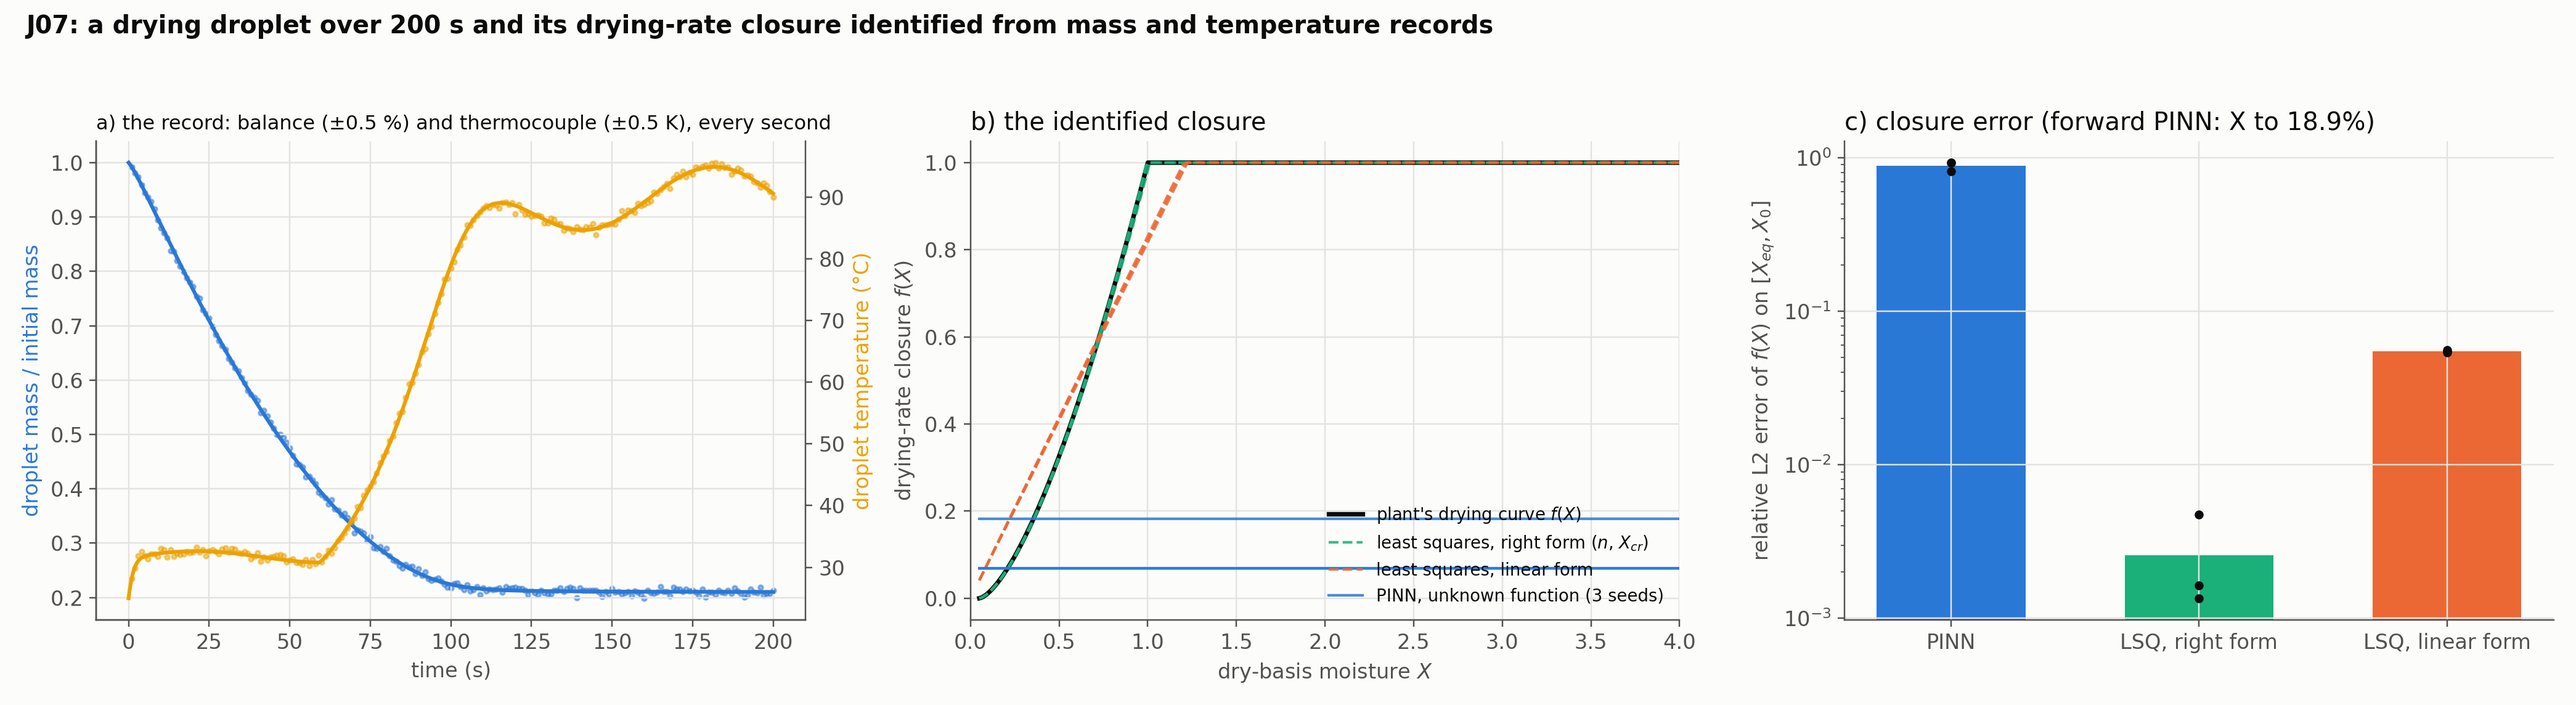
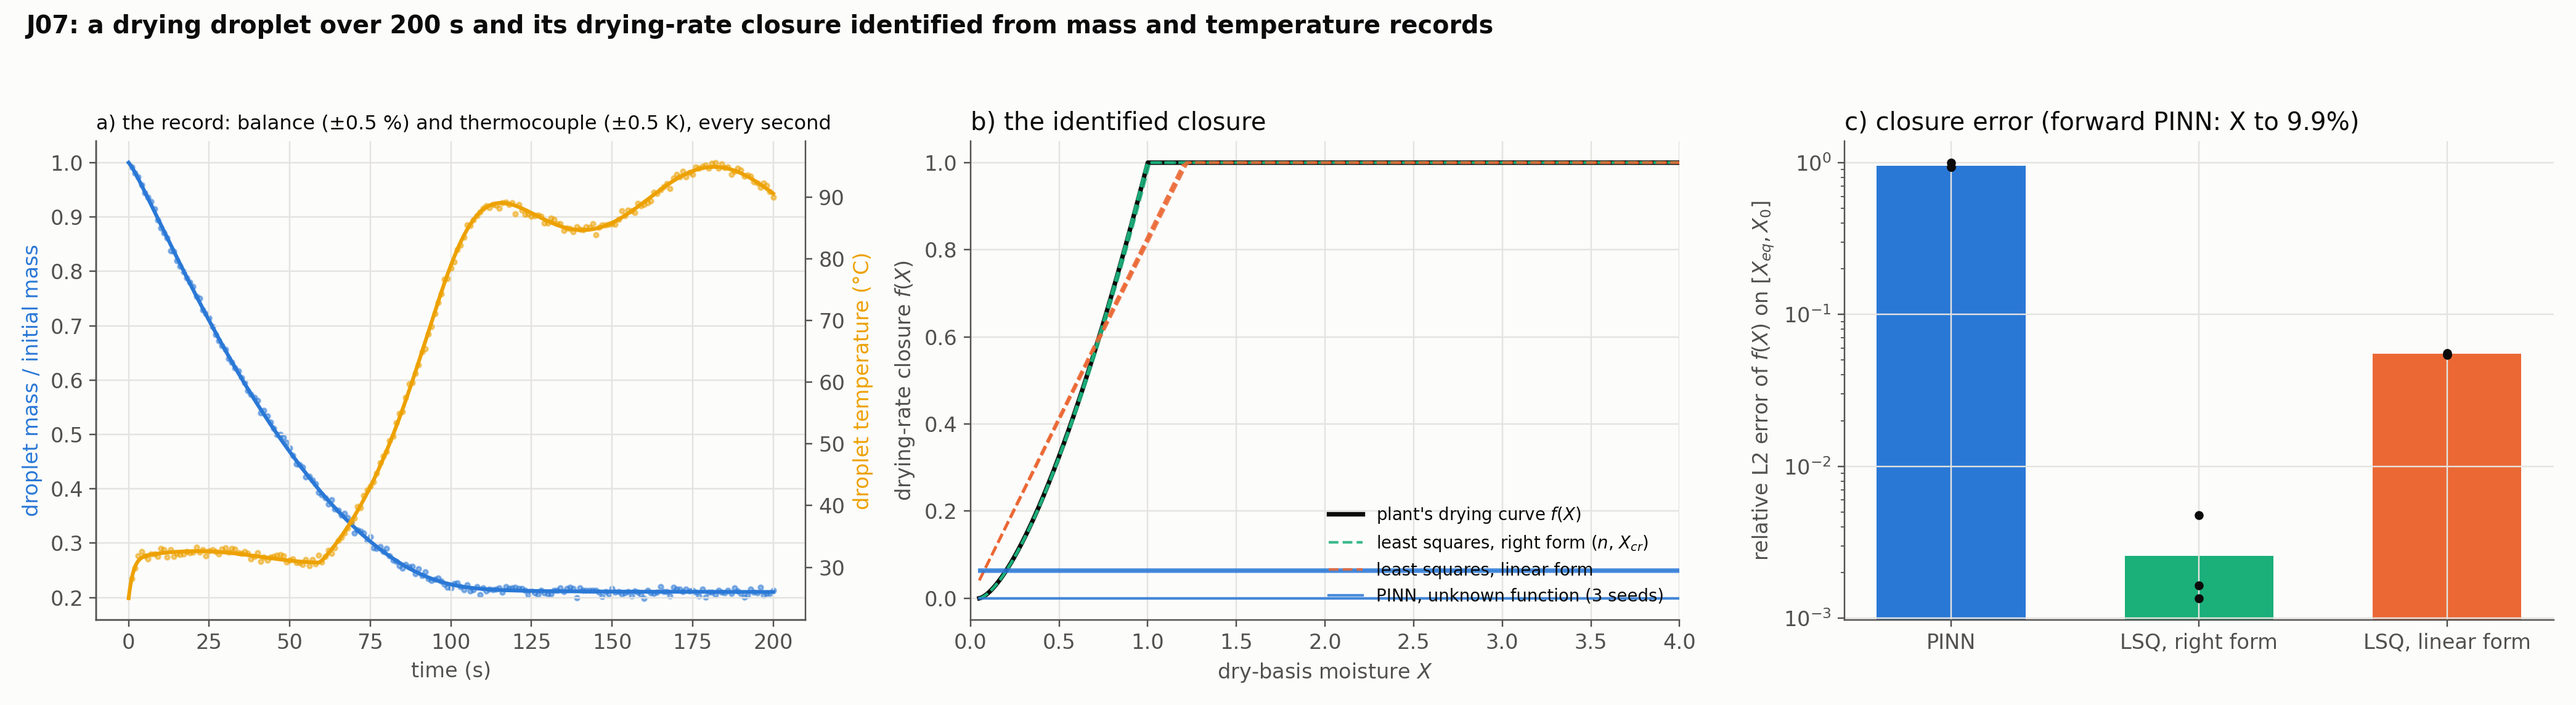
exp(J07): the drying droplet's forward solve and the closure identification, first pass: the free closure collapses to a constant
Claude-Session: https://claude.ai/code/session_01UnzSpXpauvRJsPnBamsC4p

diff --git a/experiments/J07_droplet_drying/run.py b/experiments/J07_droplet_drying/run.py
@@ -253,7 +253,10 @@ def main():
     jobs = [("forward", s) for s in range(args.seeds)] + [("closure", s) for s in range(args.seeds)]
     with ProcessPoolExecutor(max_workers=args.workers) as pool:
         futures = [
-            pool.submit(run_forward if kind == "forward" else run_closure, (s, args.steps))
+            pool.submit(
+                run_forward if kind == "forward" else run_closure,
+                (s, args.steps, args.lbfgs_steps, args.initial, args.data_weight),
+            )
             for kind, s in jobs
         ]
         for fut in futures:

diff --git a/experiments/J07_droplet_drying/README.md b/experiments/J07_droplet_drying/README.md
@@ -1,0 +1,48 @@
+# J07: a drying droplet and its drying-rate closure (first pass)
+
+## Question
+
+Can the twin solve the single-droplet drying model forward, and identify the drying-rate closure $f(X)$, the part of the model a plant cannot measure, from a mass-and-temperature record? Against what a classical fit achieves with the right and with a wrong parametric form.
+
+## Setup
+
+- **Model:** `pinnrl.process.DryingDroplet`: a 1.5 mm droplet of a 20 % solids solution (skim-milk-like) at 25 °C in air at 90 °C wandering by $\pm 5$ K (recorded), humidity ratio 0.01, relative velocity 1 m/s. Ranz–Marshall heat and mass transfer, shrinkage by ideal mixing, and the drying rate $-\dot X = h_m A (\rho_{v,s}(T) - \rho_{v,a}) f(X) / m_s$ with the characteristic drying curve $f(X) = \min(1, ((X - X_{eq})/(X_{cr} - X_{eq}))^n)$, $n = 1.5$, $X_{cr} = 1$, $X_{eq} = 0.05$ (dry basis; $X_0 = 4$). The ODE reference (LSODA) dries the droplet in about 100 s: a wet-bulb plateau at 32 °C, the falling-rate period from $t \approx 50$ s with the temperature rising 50 K in 40 s, equilibrium by 150 s.
+- **Part A, forward PINN:** `custom_pde(t_max=200)` (an ODE in $t$, normalized with the trajectory's scales), the clean recipe: tanh 4 × 64, 2,048 collocation points, Adam $10^{-3}$ for 12,000 steps then L-BFGS 500 (4,000 + 100 left a 20 % error), 3 seeds.
+- **Part B, the closure:** the record is the droplet mass every second (a balance, noise 0.5 % of the initial mass) and its temperature every second (noise 0.5 K), 200 readings each, through `PointSensor`s (the mass as the expression `m_s*(1 + X)` with `scale = m_0`). `custom_pde(unknown_rate=...)` makes $f$ an `UnknownFunction` of $X$ (16 × 16, sigmoid output in $[0, 1]$, monotone increasing in $X$, started at 0.5). Sensor weight 300 (a sweep over 100–10,000 on one seed, below), same training, 3 seeds. **Controls** on the same records, by least squares on the ODE reference (`scipy.optimize.least_squares`): the parametric curve with the right form ($n$, $X_{cr}$ free), and the misspecified linear form $f = \min(1, X / X_{lin})$.
+- **Metrics:** the relative L2 error of $f$ over $[X_{eq}, X_0]$; the relative L2 errors of $X(t)$ and of $T(t) - T_0$ against the reference; the run time.
+- **Code:** `run.py`, `plot.py`.
+
+Rerun with:
+
+```bash
+python experiments/J07_droplet_drying/run.py --seeds 3 --steps 12000 --lbfgs-steps 500 --data-weight 300 --workers 3
+python experiments/J07_droplet_drying/plot.py
+```
+
+## Result
+
+![J07](../../docs/assets/benchmarks/j07_droplet_drying.png)
+
+| Arm | Seed | Rel. L2 of $f$ | Rel. L2 of $X$ | Rel. L2 of $T - T_0$ | Max $\lvert \Delta T \rvert$ | Time |
+|---|---|---|---|---|---|---|
+| forward PINN | 0 | – | 0.076 | 0.21 | 24 K | 111 s |
+| | 1 | – | 0.084 | 0.22 | 25 K | 114 s |
+| | 2 | – | 0.138 | 0.25 | 27 K | 110 s |
+| PINN, unknown $f$ | 0 | 1.00 ($f \equiv 0$) | 0.026 | 0.006 | 1.0 K | 214 s |
+| | 1 | 0.94 ($f \equiv 0.06$) | 0.36 | 0.53 | 35 K | 180 s |
+| | 2 | 0.93 ($f \equiv 0.07$) | 0.41 | 0.54 | 34 K | 194 s |
+| least squares, right form | 0–2 | 0.005, 0.002, 0.001 ($n$ = 1.50–1.52, $X_{cr}$ = 1.00–1.01) | | | | 0.2 s |
+| least squares, linear form | 0–2 | 0.056, 0.054, 0.055 ($X_{lin}$ = 1.20–1.22) | | | | 0.3 s |
+
+The weighted misfit of the least-squares fits: 341–361 with the right form (400 records, $\chi^2 \approx N$) and 5,700–6,000 with the linear one.
+
+**Sensor-weight sweep** (one seed, 12,000 + 500 steps): weight 100, $f \equiv 0.04$ (fields 33 % off); 300, $f$ recovered to 15 % in one run (the shape right, shifted to higher $X$) and collapsed to a constant in a repeat of the same seed with a different thread count; 1,000, one run at 33 % (the shape right, a plateau at 0.66) and two collapsed; 3,000 and 10,000, $f \equiv 0$ with the fields fitted to 1–2 %.
+
+## Conclusion (first pass)
+
+1. **The forward solve is harder than the evaporator's.** The sharp transition at the critical moisture (the temperature rises 50 K in 40 s after a 50 s plateau) is the feature a smooth network spreads: 8–14 % on $X$ and 20–25 % on the temperature rise at 12,000 + 500 steps, where 4,000 + 100 gave 20 % and 44 %. The error sits in the transition; the plateaus are right. Time-marching windows (H04) or a causal weighting are the known remedies and this model is their test case.
+2. **The unknown closure collapses to a constant.** On every seed the monotone, bounded network for $f$ ends flat: either $f \equiv 0$ with the records fitted and the physics ignored (high sensor weight: the network reproduces the data by itself and the residual is cheap to leave unpaid), or $f \equiv 0.06$ with the fields 40 % off (low weight: a self-consistent wrong solution). The one recovery to 15 % did not reproduce under a different thread count: the basin is narrow. The collapse is K09's trivial attractor in the inverse setting, and it is sticky by construction: softplus-constrained weights that have gone small leave almost no gradient to grow back.
+3. **The classical fit with the right form is at the noise floor, and the wrong form is detectable.** Least squares on the ODE recovers $n$ and $X_{cr}$ to 1 % in 0.2 s; the linear form lands 5.5 % off with a misfit 16 times the right one, so misspecification shows in the residual. Between a parametric fit that is right, a parametric fit that is visibly wrong, and a free function that collapses, the twin's claim to identify closures is not yet made on this model.
+4. **What to change (J07b).** Two-stage training (fit the record with $f$ frozen at the wet-surface value, then release $f$ with the physics weight raised); a basis parametrization of $f$ (K48's cosine or Legendre modes, whose constant mode is explicit and whose other modes cannot vanish silently); a pointwise start for $f$ from the smoothed record ($f = -\dot X m_s / (h_m A \Delta\rho)$, the equation-discovery estimate), with the PINN refining it; and the sensor weight set by the noise model (K39) rather than by a sweep.
+
+**Consequences for the backlog:** J07b (the closure, second pass) with the four changes above; H04 (time-marching) gets the droplet as a test case next to the pendulum and SIR of K09; J08 (stickiness) waits for a working closure; the EKF control (J05) applies to the parametric form only, which is the comparison's point.

diff --git a/experiments/BACKLOG.md b/experiments/BACKLOG.md
@@ -196,7 +196,8 @@ before it counts as done.
 | J04 | P1 | Plant-like sensors | Is R_f identifiable from outlet/boundary measurements only? | Fisher information of six Legendre modes of R_f(t) and four nuisances from finite differences on the reference, four layouts; profile likelihood on the reference. Outlet X + W determine every mode to 1–4 % and the end value to 5 %; U and the constant fouling are one unknown; a 0.5 K steam bias mimics a 30 % fouling error. See `J04_plant_sensors/`. | done |
 | J05 | P2 | EKF/UKF baseline | PINN estimator vs a Kalman filter on a lumped model. | `pinnrl.process.ExtendedKalmanFilter` + RTS smoother on 6–51 cells with R_f as a random walk, J03's records: 3.5 % in L2 and 2 % at the end in 0.2 s (smoother 2.3 % / 0.7 %) against the PINN's 9–16 % / 10–49 % in 5 min; one tuning knob; the input biases of J04 cost both alike. See `J05_ekf_baseline/`. | done |
 | J06 | P2 | Calibrated fouling intervals | Are the R_f uncertainty intervals calibrated? | Ensembles or Laplace; coverage as in F06. | todo |
-| J07 | P2 | Single-droplet drying model | Forward PINN for droplet moisture and temperature. | Against a classical ODE/PDE reference. | todo |
+| J07 | P2 | Single-droplet drying model | Forward PINN for droplet moisture and temperature. | `pinnrl.process.DryingDroplet` (Ranz–Marshall, shrinkage, a characteristic drying curve) with an ODE reference: the forward PINN reaches 8–14 % on X (the critical-moisture transition is the hard feature); the closure f(X) as an UnknownFunction collapses to a constant on every seed, while least squares with the right form is at the noise floor and a wrong form is detectable. See `J07_droplet_drying/`. | first pass |
+| J07b | P1 | Drying closure, second pass | Can the free-function closure be made to train? | Two-stage training (record first, f frozen; then f released), a basis parametrization (K48), a pointwise start from the smoothed record, the noise-model sensor weight (K39); against the J07 least-squares controls. | todo |
 | J08 | P2 | Stickiness estimation | Estimate the glass-transition margin T − T_g from outlet air T and RH. | Synthetic data from J07 plus noise. | todo |
 | J09 | P3 | Measurement design | Which sensor placement minimises parameter variance? | Fisher information over candidate sensor sets on J01/J07. | todo |
 | J10 | P3 | Line-level twin | Coupled evaporator → dryer with shared states. | Couple J01 and J07; error propagation across units. | todo |

diff --git a/docs/roadmap.md b/docs/roadmap.md
@@ -36,7 +36,7 @@ The goal is to estimate unknown physics with known validity conditions and calib
 
 ## v0.7+: process twins
 
-- [x] `pinnrl.process`: the falling-film evaporator with its method-of-lines reference simulator and `custom_pde()` form (J01, J02 done); fouling estimation from outlet sensors (J03: the drift to 9–16 %, at the surrogate's limit) and its identifiability (J04: the data allow 5 % on the end value; U and the constant fouling are one unknown; the steam temperature is the nuisance that matters). *Open: the spray-dryer model (J07), calibrated fouling intervals (J06), the EKF baseline (J05). K09 (linearized stability) is done: the physics is convectively stabilised and not stiff; the discretised operator's spectrum is a pseudospectrum.*
+- [x] `pinnrl.process`: the falling-film evaporator with its method-of-lines reference simulator and `custom_pde()` form (J01, J02 done); fouling estimation from outlet sensors (J03: the drift to 9–16 %, at the surrogate's limit) and its identifiability (J04: the data allow 5 % on the end value; U and the constant fouling are one unknown; the steam temperature is the nuisance that matters). The drying droplet (`pinnrl.process.DryingDroplet`, J07) is the second unit: its forward PINN solve reaches 8–14 % and the free-function closure collapses to a constant (J07b is the second pass). *Open: calibrated fouling intervals (J06), the closure's second pass (J07b), the dryer-scale model. K09 (linearized stability) is done: the physics is convectively stabilised and not stiff; the discretised operator's spectrum is a pseudospectrum.*
 - [x] Classical estimators on the same models: `pinnrl.process.ExtendedKalmanFilter` with an RTS smoother and `FallingFilmEvaporator.fouling_state_space` (J05: on a known model the filter beats the PINN twin by a wide margin at a thousandth of the cost; the PINN's case is the partly unknown model). *Open: moving-horizon estimation (P15, P19).*
 - Historian adapter: CSV or Parquet plus a tag map to sensor definitions.
 - A dashboard "Process" view: soft-sensor trends with uncertainty bands, and time to the next cleaning.

diff --git a/docs/benchmarks.md b/docs/benchmarks.md
@@ -269,3 +269,17 @@ python experiments/J05_ekf_baseline/run.py --seeds 3
 - **The tuning is one number**, the random-walk intensity: a decade too small and the filter lags the ramp by four minutes, a decade too large and it follows the noise. Six cells still give 7 %.
 - **The inputs bound both estimators alike**: a 0.3 K steam bias costs the filter 12 % at the end, a 1 % feed bias 8 %, the J04 numbers. The PINN's case is the partly unknown model (a closure, a field), not this one; the EKF stays as the control on every later comparison.
 
+## A drying droplet and its closure (experiment J07, first pass)
+
+```bash
+python experiments/J07_droplet_drying/run.py --seeds 3 --steps 12000 --lbfgs-steps 500 --data-weight 300 --workers 3
+```
+
+`pinnrl.process.DryingDroplet` (a 1.5 mm droplet drying in 90 °C air with a characteristic drying curve as its rate closure): the PINN forward solve, and the closure $f(X)$ identified as an unknown function from a mass-and-temperature record, against least squares with the right and with a wrong parametric form. Details in `experiments/J07_droplet_drying/README.md`.
+
+![J07](assets/benchmarks/j07_droplet_drying.png)
+
+- **The forward solve reaches 8–14 % on the moisture** at 12,000 + 500 steps: the 50 K temperature rise over 40 s at the critical moisture is the feature a smooth network spreads (time-marching is the next lever).
+- **The unknown closure collapses to a constant on every seed**, either ignoring the physics ($f \equiv 0$, records fitted) or the data ($f \equiv 0.06$): K09's trivial attractor in the inverse setting, sticky because softplus-constrained weights that go small cannot grow back. One recovery to 15 % did not reproduce.
+- **Least squares with the right form is at the noise floor** ($n$, $X_{cr}$ to 1 % in 0.2 s) and the wrong form is 5.5 % off with a misfit 16 times larger. The second pass (J07b) tries two-stage training, a basis parametrization and a pointwise start from the record.
+

diff --git a/experiments/README.md b/experiments/README.md
@@ -53,6 +53,7 @@ When an experiment shows that a feature works, move the reusable code into
 | `J01_evaporator_reference/` | J01, J02 | The falling-film evaporator reference simulator (steady, dynamic, grid convergence, scenarios) and its PINN forward solve (0.4–0.6 % on the steam step). `run.py`, `plot.py`. |
 | `K09_linearized_stability/` | K09 | Jacobian spectra of the catalogue's ODE systems vs the PINN's error, and the evaporator's method-of-lines spectrum vs its grid. `run.py`, `plot.py`. |
 | `J03_fouling_estimation/` | J03 | The evaporator twin recovering a drifting fouling resistance from outlet sensors with the steam and feed records as inputs, function vs scalar. `run.py`, `plot.py`. |
+| `J07_droplet_drying/` | J07 | A drying droplet's PINN forward solve and the identification of its drying-rate closure from a mass-and-temperature record, against parametric least squares (first pass). `run.py`, `plot.py`. |
 | `J05_ekf_baseline/` | J05 | An extended Kalman filter and smoother on a lumped evaporator model against the PINN twin, with the tuning and the model-mismatch cases. `run.py`, `plot.py`. |
 | `J04_plant_sensors/` | J04 | What outlet sensors determine about the fouling resistance: Fisher bounds on six modes of R_f(t) and four nuisances from the reference solver, and the profile likelihood of the drift. `run.py`, `plot.py`. |
 | `K48_reduced_bases/` | K48 | The F09 fields in a cosine basis: Fisher spectrum of the modes from the reference solver, the swarm over the coefficients, and a 6-mode basis vs a network as the unknown. README with results, `run.py`, `plot.py`. |
